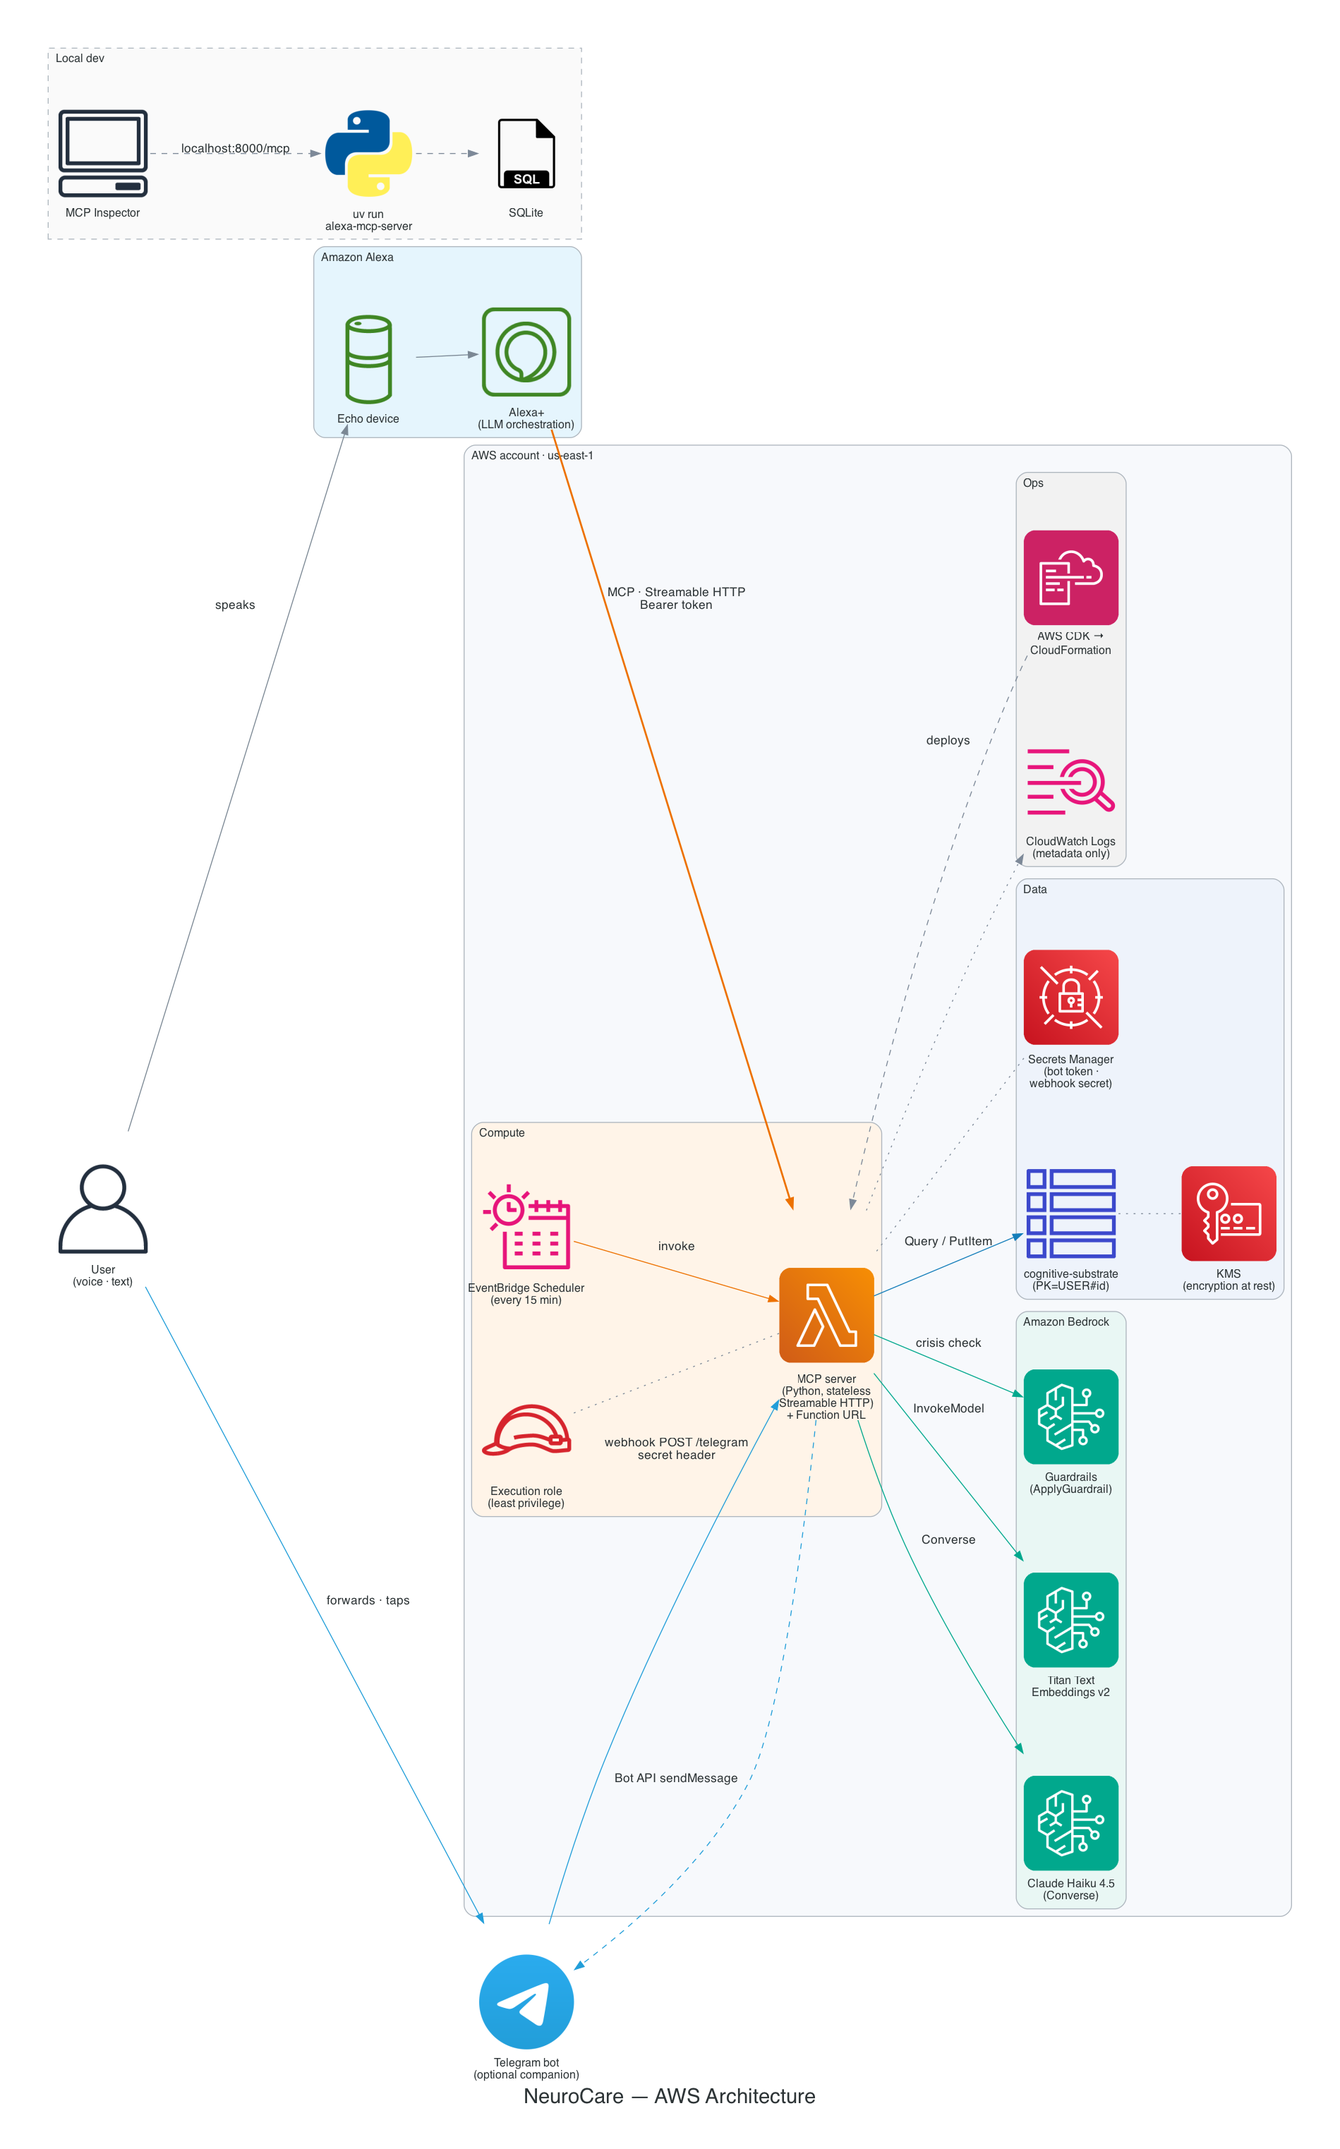
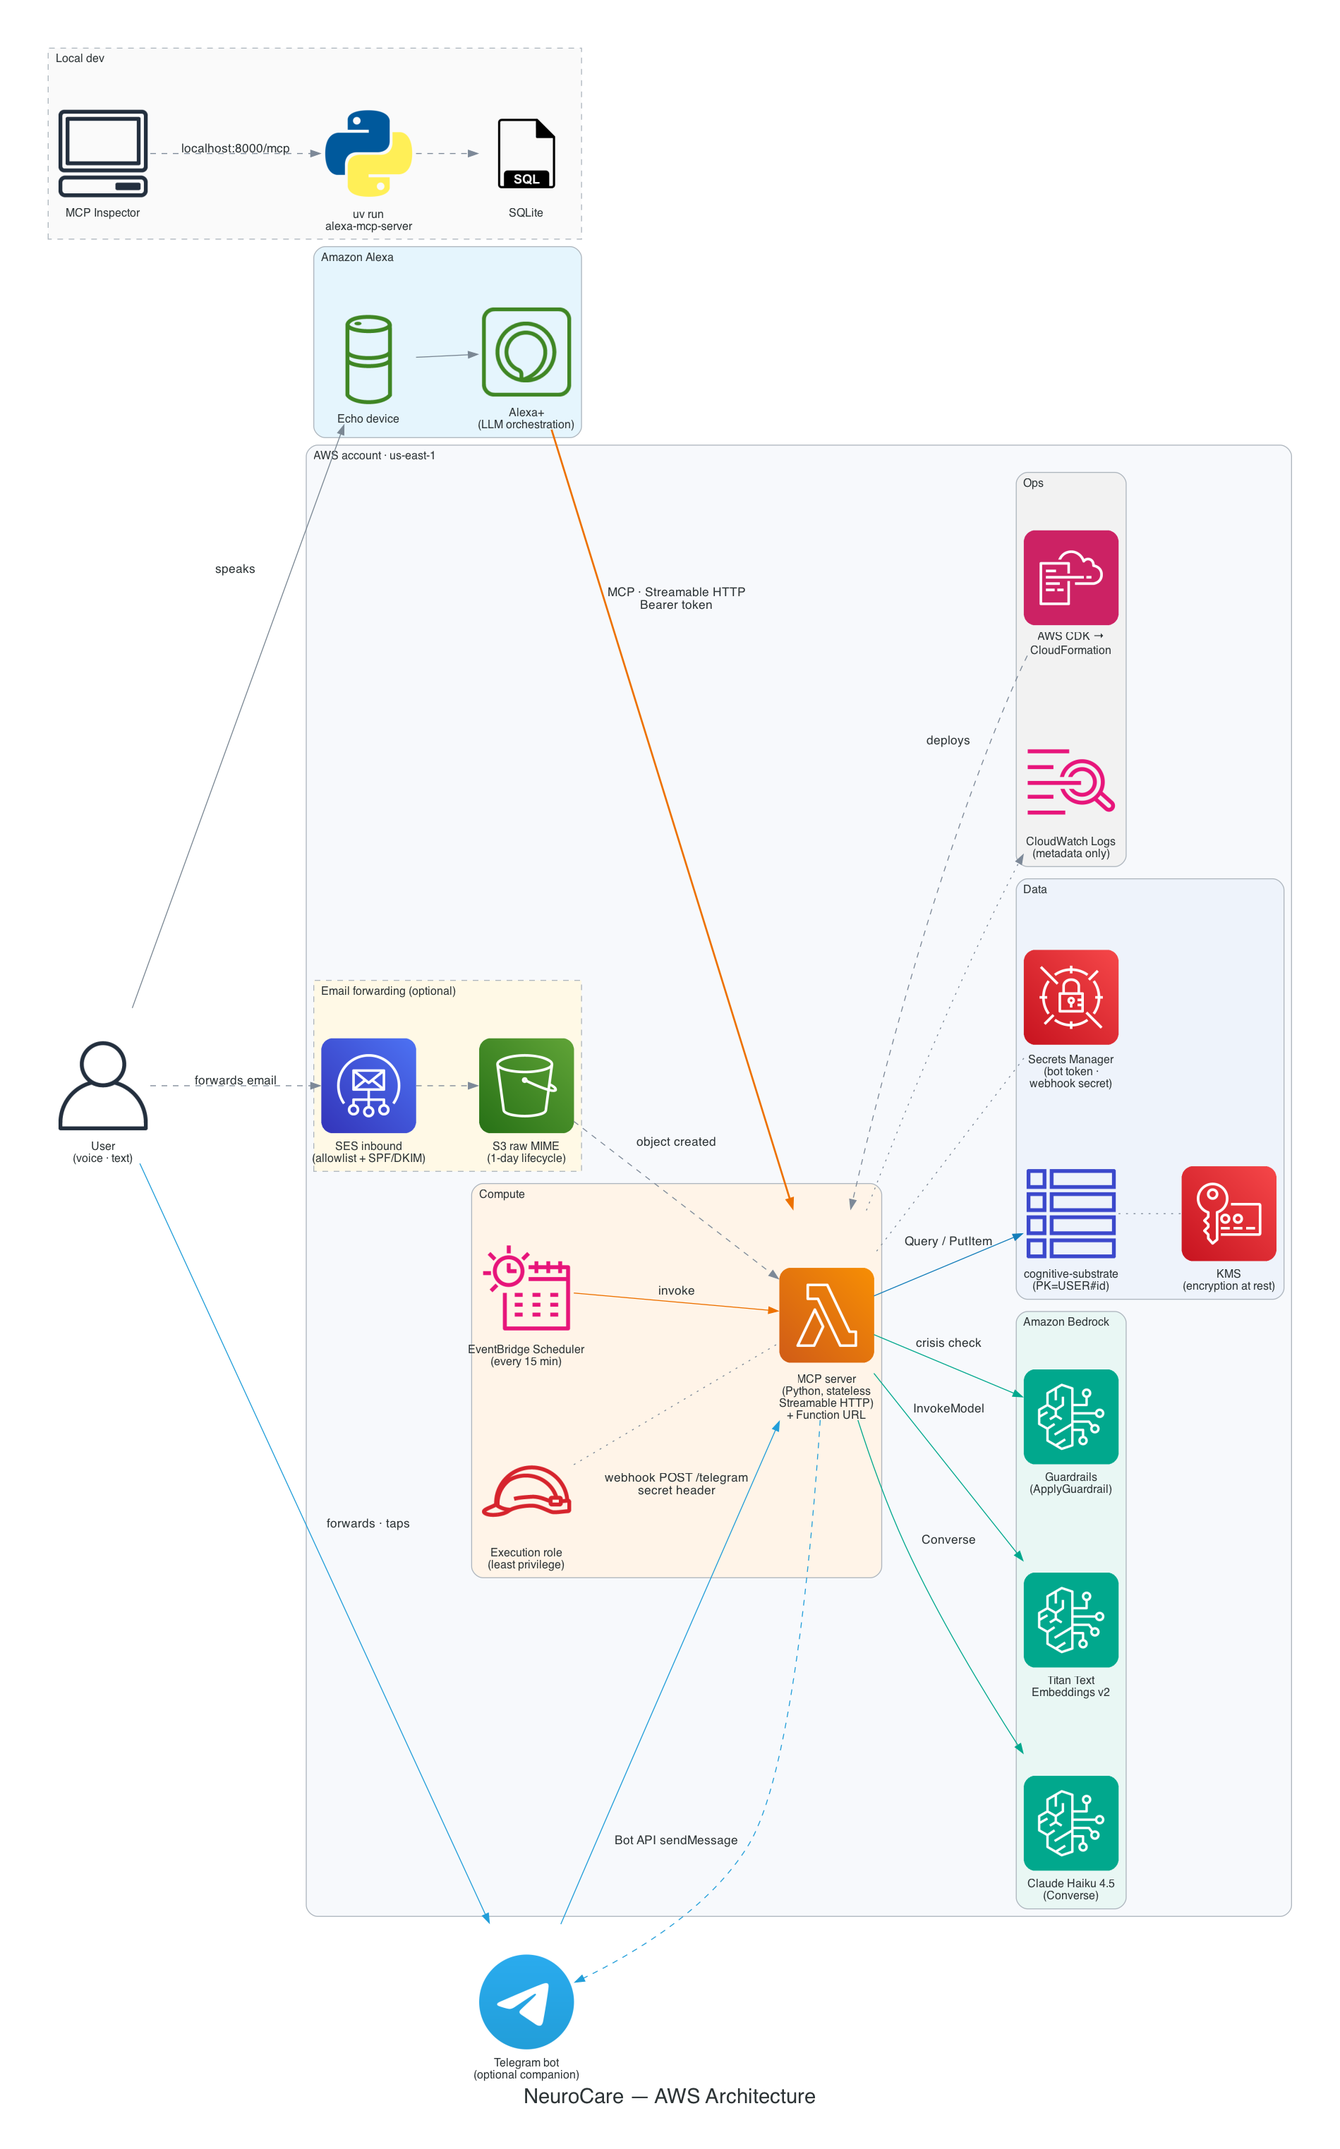
docs: add sender resolution and optional email forwarding address
- decode: 5-tier sender resolution (param, channel metadata, header
  lines, signature match, ask once) and sender_source result field
- New spec 5.8: SES inbound forwarding address with sender allowlist
  and SPF/DKIM checks, S3 raw MIME with 1-day lifecycle, parser for
  forwarded formats, triage card to linked Telegram, no outbound mail
- Profile email.allowed_senders, env vars, module layout, CDK, phase
  3/6b acceptance, risks, architecture Mermaid and AWS diagram
- aws-setup: SES domain, MX record, receipt rule steps and checklist

diff --git a/docs/diagrams/aws_architecture.py b/docs/diagrams/aws_architecture.py
@@ -13,12 +13,14 @@ from pathlib import Path
 from diagrams import Cluster, Diagram, Edge
 from diagrams.aws.compute import Lambda
 from diagrams.aws.database import DynamodbTable
+from diagrams.aws.engagement import SimpleEmailServiceSes
 from diagrams.aws.integration import EventbridgeScheduler
 from diagrams.aws.general import User
 from diagrams.aws.iot import IotAlexaEcho, IotAlexaVoiceService
 from diagrams.aws.management import Cloudformation, CloudwatchLogs
 from diagrams.aws.ml import Bedrock
 from diagrams.aws.security import KMS, IAMRole, SecretsManager
+from diagrams.aws.storage import SimpleStorageServiceS3
 from diagrams.generic.database import SQL
 from diagrams.onprem.client import Client
 from diagrams.programming.language import Python
@@ -67,6 +69,10 @@ with Diagram(
             role = IAMRole("Execution role\n(least privilege)")
             scheduler = EventbridgeScheduler("EventBridge Scheduler\n(every 15 min)")
 
+        with Cluster("Email forwarding (optional)", graph_attr={"bgcolor": "#FFF9E6", "style": "dashed"}):
+            ses = SimpleEmailServiceSes("SES inbound\n(allowlist + SPF/DKIM)")
+            raw = SimpleStorageServiceS3("S3 raw MIME\n(1-day lifecycle)")
+
         with Cluster("Data", graph_attr={"bgcolor": "#EEF3FB"}):
             table = DynamodbTable("cognitive-substrate\n(PK=USER#id)")
             kms = KMS("KMS\n(encryption at rest)")
@@ -92,6 +98,9 @@ with Diagram(
     telegram >> Edge(label="webhook POST /telegram\nsecret header", color=TELEGRAM_BLUE) >> mcp
     mcp >> Edge(label="Bot API sendMessage", color=TELEGRAM_BLUE, style="dashed") >> telegram
     scheduler >> Edge(label="invoke", color=AWS_ORANGE) >> mcp
+    user >> Edge(label="forwards email", style="dashed", color=GREY) >> ses
+    ses >> Edge(style="dashed", color=GREY) >> raw
+    raw >> Edge(label="object created", style="dashed", color=GREY) >> mcp
     secrets - Edge(style="dotted", color=GREY) - mcp
     cfn >> Edge(label="deploys", style="dashed", color=GREY) >> mcp
     mcp >> Edge(style="dotted", color=GREY) >> logs

diff --git a/docs/spec.md b/docs/spec.md
@@ -247,7 +247,7 @@ text) with its result attached, TTL 7 days. This is what lets the Telegram card 
 pinned Today message, and `triage_inbox` show the same result whichever channel produced it.
 
 #### Input paths
-Reading a long message aloud is the main friction, so four paths feed the same tool:
+Reading a long message aloud is the main friction, so these paths feed the same tool:
 
 | Path | Best for | How |
 |---|---|---|
@@ -255,6 +255,7 @@ Reading a long message aloud is the main friction, so four paths feed the same t
 | Type or paste | Longer text | Alexa app / alexa.com text chat → same `decode(message=…)` call |
 | Forward it | Long emails, threads | iOS Share Sheet shortcut (or similar) posts to `POST /inbox`; user then says "decode the message I just sent" → `decode()` |
 | Telegram | Reading the full breakdown | Forward, share, or paste to the NeuroCare bot (§5.7); it replies with the triage card |
+| Email forward | Emails, one tap from any mail app | Forward to the NeuroCare address (§5.8, optional, phase 6b); sender kept automatically |
 
 `POST /inbox` is a plain HTTP route on the same server (not an MCP tool), same bearer token.
 Body: `{ text: str (≤ 4000), sender?: str, source?: str }`. Stores an `INBOX#` item (TTL 7 days).
@@ -278,6 +279,7 @@ Returns
   suggest_reminder_minutes?: int, # set when reply_by is known
   needs_work: bool,               # message asks for a deliverable → Alexa may offer decompose
   sender_context_used: bool,
+  sender_source: "param" | "channel" | "header" | "signature" | "asked" | null,
   source: "llm" | "baseline",
   speak
 }
@@ -320,6 +322,23 @@ Low-friction rules:
 - At most one follow-up offer per result: a reminder (`suggest_reminder_minutes`) **or**
   "want me to break that into steps?" (`needs_work`), not both.
 - Unknown sender: still answer; offer once to remember who they are.
+
+#### Sender resolution
+Sender context is what makes decoding better than a bare LLM, and pasted text usually loses it.
+The server resolves the sender in this order and stops at the first hit:
+
+| # | Source | Example |
+|---|---|---|
+| 1 | Explicit `sender` param | "What does Priya mean by…" |
+| 2 | Channel metadata | Telegram `forward_origin` name; email forward's original `From:` (§5.8) |
+| 3 | Header lines in the pasted text | `From: Priya Shah <priya@…>` copied along with the body |
+| 4 | Greeting or signature matched against `PERSON#` names and aliases | "Thanks, Priya" / "– P." |
+| 5 | Ask once | Telegram: button row of the 3 most recently mentioned people + [Someone else] + [Skip]. Voice: decode proceeds without sender context; `speak` ends with "Who's it from?" |
+
+Tiers 3–4 are deterministic (regex + tiered name matching, §5.1), so there is no extra LLM call.
+A tier-4 match is used only if it is unambiguous. When the user picks a sender after the fact,
+the sender is stored on the `INBOX#` item and `decode` re-runs with that context. The result
+carries `sender_source: "param" | "channel" | "header" | "signature" | "asked" | null`.
 
 #### `triage_inbox(limit=3)`
 "What needs me?" / "Anything urgent?" Decodes pending inbox items (at most 3 per call, to stay
@@ -593,6 +612,41 @@ sequenceDiagram
 
 Not in scope: group chats, voice notes, editing plans in Telegram, sending drafts to anyone.
 
+### 5.8 Email forwarding address (optional, phase 6b)
+
+One-tap Forward from any mail app, with the original sender kept. The user still chooses each
+email, so this is not an inbox connector: nothing is read that the user did not forward.
+
+- **Address:** `inbox@<INBOUND_EMAIL_DOMAIN>` (a subdomain such as `in.neurocare.example`, with
+  an MX record pointing to SES inbound in `us-east-1`). Single demo user for the MVP; per-user
+  `inbox+<code>@…` addresses come with OAuth.
+- **Acceptance:** SES receipt rule accepts mail only when the envelope `From` is in
+  `email.allowed_senders` **and** SES SPF and DKIM verdicts are `PASS`. Everything else is
+  dropped without a bounce.
+- **Pipeline:** SES → S3 (raw MIME, KMS-encrypted, lifecycle delete after 1 day) → Lambda
+  (`channels/email.py`) → parse → `INBOX#` item with `source: "email"` → raw object deleted.
+- **Parsing:** take the forwarded block's original `From:`, `Subject:`, and `Date:`
+  (Gmail/Outlook/Apple Mail "Forwarded message" formats); strip quoted history and signatures;
+  keep plain text only, max 4000 characters; ignore attachments.
+- **After ingest:** if a Telegram chat is linked, the bot sends the triage card (a reply to the
+  user's action, so it does not count toward `telegram.max_push_per_day`). Otherwise it waits for
+  "Alexa, what needs me?" or "decode the email I forwarded".
+- **Never** replies to, or sends mail to, anyone. No outbound email at all.
+
+```mermaid
+flowchart LR
+    M([User taps Forward<br/>in any mail app]) --> SES[SES inbound<br/>in.domain MX]
+    SES --> V{From in allowed_senders<br/>and SPF + DKIM pass?}
+    V -- no --> DROP[[Drop silently]]
+    V -- yes --> S3[(S3 raw MIME<br/>KMS · 1-day lifecycle)]
+    S3 --> L[Lambda channels/email.py<br/>parse original From,<br/>strip quotes, ≤ 4000 chars]
+    L --> IN[(INBOX# item<br/>source: email)]
+    L -.-> DEL[Delete raw object]
+    IN --> TGQ{Telegram linked?}
+    TGQ -- yes --> CARD([decode → triage card in Telegram])
+    TGQ -- no --> WAIT([Wait for 'Alexa, what needs me?'])
+```
+
 ## 6. Safety
 
 ### Crisis path
@@ -665,6 +719,7 @@ Stored as one `PROFILE` item; seeded from `profile_seed.yaml` in the demo.
 | `telegram.max_push_per_day` | int 0–5 | 3 | Hard cap on messages the bot sends first |
 | `telegram.quiet_hours` | `HH:MM-HH:MM` | `21:00-08:00` | No bot-initiated messages inside this range |
 | `telegram.morning_at` | `HH:MM` | `08:30` | Time of the `morning` prompt |
+| `email.allowed_senders` | str[] | [] | Addresses allowed to forward to the inbound address (§5.8); empty disables it |
 
 ## 8. Data model
 
@@ -763,12 +818,15 @@ Same flow as Mermaid (renders even without the image), with the server's interna
 flowchart LR
     U((User)) -->|voice| A[Alexa+]
     U -->|text · buttons| TG[Telegram]
+    U -->|forward email| SESN
     TG -->|webhook POST /telegram<br/>secret header| URL
     A -->|MCP · Streamable HTTP<br/>Bearer token| URL[Lambda Function URL]
 
     subgraph AWS["AWS account · us-east-1"]
         URL --> TOOLS
         SCH[EventBridge Scheduler<br/>every 15 min] -->|invoke| SRV
+        SESN[SES inbound<br/>optional] -->|raw MIME| S3B[(S3<br/>1-day lifecycle)]
+        S3B -->|object created| SRV
 
         subgraph SRV["MCP server · Lambda (Python, stateless)"]
             TOOLS[Tool layer<br/>server.py] --> AUTH[auth<br/>token → user_id]
@@ -797,7 +855,8 @@ flowchart LR
     classDef data fill:#3B48CC,stroke:#262F85,color:#FFFFFF
     classDef code fill:#ECEFF4,stroke:#7D8998,color:#1B1F24
     classDef ext fill:#DCEFFB,stroke:#147EBA,color:#0B3D5C
-    class URL,CW,SCH aws
+    class URL,CW,SCH,SESN aws
+    class S3B data
     class HAIKU,TITAN,GR bedrock
     class DDB,SQL data
     class TOOLS,AUTH,SAFE,PIL,LLMC,STC,LSRV code
@@ -817,11 +876,13 @@ src/alexa_mcp_server/
   channels/http.py   POST /inbox route
   channels/telegram.py  webhook, link flow, triage card, buttons, pinned Today message
   channels/schedule.py  scheduled bot messages (cap, quiet hours)
+  channels/email.py  SES inbound: parse forwarded email → INBOX# (optional)
   safety/crisis.py   phrase list + ApplyGuardrail
   lambda_handler.py  ASGI → Lambda adapter
 profile_seed.yaml
 infra/               CDK app: table, Lambda, Function URL, IAM (Bedrock InvokeModel, ApplyGuardrail), Guardrail,
-                     EventBridge Scheduler rule, Secrets Manager secrets (Telegram bot token, webhook secret)
+                     EventBridge Scheduler rule, Secrets Manager secrets (Telegram bot token, webhook secret),
+                     optional SES receipt rule + S3 bucket for email forwarding
 ```
 
 Pillar modules are plain functions taking `(store, llm, user_id, ...)` so they are testable
@@ -837,6 +898,7 @@ uv run --no-project --with diagrams python docs/diagrams/aws_architecture.py
 Environment variables: `STORE`, `TABLE_NAME`, `SQLITE_PATH`, `AUTH_TOKEN`, `DEMO_USER_ID`,
 `BEDROCK_MODEL_ID`, `BEDROCK_EMBED_MODEL_ID`, `BEDROCK_GUARDRAIL_ID`, `BEDROCK_GUARDRAIL_VERSION`,
 `TELEGRAM_BOT_TOKEN`, `TELEGRAM_WEBHOOK_SECRET` (both from SSM / Secrets Manager on AWS),
+`INBOUND_EMAIL_DOMAIN`, `INBOUND_EMAIL_BUCKET` (optional),
 `AWS_REGION`, `HOST`, `PORT`.
 
 ## 10. Server instructions (draft)
@@ -877,11 +939,11 @@ Each phase is demoable on its own.
 |---|---|---|
 | 1 | Store interface + SQLite, auth, memory tools, profile + seed | All memory tools pass tests; `what_was_i_doing` returns seeded context in Inspector |
 | 2 | Sense of time | `check_in` level boundaries tested at 59/60/89/90/119/120 min and after end-of-day; `now_context` leave-by correct |
-| 3 | Translator + Bedrock wrapper | Baseline-only path tested with fake LLM failure; schema-validated LLM path tested with fake LLM; one live Bedrock smoke test; embedding tier enabled (recall and rumination tested with `FakeEmbedder`, null embeddings backfilled); `POST /inbox` → `decode()` with no message decodes newest item, `NOT_FOUND` when empty; triage fields present (`related` resolved from seeded commitments, `cues` from baseline); a message containing injected instructions yields a normal result with no side effects; `triage_inbox` orders by priority → reply_by → age and decodes at most 3 per call |
+| 3 | Translator + Bedrock wrapper | Baseline-only path tested with fake LLM failure; schema-validated LLM path tested with fake LLM; one live Bedrock smoke test; embedding tier enabled (recall and rumination tested with `FakeEmbedder`, null embeddings backfilled); `POST /inbox` → `decode()` with no message decodes newest item, `NOT_FOUND` when empty; triage fields present (`related` resolved from seeded commitments, `cues` from baseline); a message containing injected instructions yields a normal result with no side effects; sender resolution tiers 1–4 tested (header line, unambiguous signature, ambiguous signature → none); `triage_inbox` orders by priority → reply_by → age and decodes at most 3 per call |
 | 4 | Guardrail: crisis → rumination → hyperfocus | Crisis precheck short-circuits `remember`, `decode`, `log_topic`, and `decompose` (tested); 3rd similar `log_topic` inside window detects; override suppresses; crisis ignores override |
 | 5 | Task breakdown + daily plan | Steps validated (count, minutes, verb-first, step 1 ≤ 5 min); `next_step`/`done_step` walk the list; `split_step` replaces only the current step; `skip_step` moves it to the end; fallback on LLM failure. `brain_dump` splits multi-item text (baseline stores one item) and is short-circuited by the crisis precheck; `plan_today` never exceeds `plan.max_priorities` and respects energy; `wrap_up` rolls unfinished items |
 | 6 | DynamoDB store + CDK + Lambda | Same test suite passes against moto-backed DynamoDB; `cdk deploy` succeeds; Inspector connects to Function URL `/mcp` with token |
-| 6b | Telegram companion | Link code flow (expiry, single use); webhook rejects a missing/wrong secret header; unlinked chat rejected; forwarded text → triage card with buttons; buttons call `remember` / `brain_dump` / feedback; pinned Today message edited on plan change; push cap and quiet hours honored (clock fixture); local long-polling dev mode works |
+| 6b | Telegram companion | Link code flow (expiry, single use); webhook rejects a missing/wrong secret header; unlinked chat rejected; forwarded text → triage card with buttons; buttons call `remember` / `brain_dump` / feedback; pinned Today message edited on plan change; push cap and quiet hours honored (clock fixture); local long-polling dev mode works. Optional email forwarding: Gmail/Outlook/Apple Mail forward fixtures parse the original sender; non-allowlisted or SPF/DKIM-failing mail dropped; raw object deleted after parse; card sent to linked Telegram chat |
 | 7 | Stretch | `reality_check(claim)`; Cognito OAuth 2.1 |
 
 ```mermaid
@@ -931,3 +993,5 @@ flowchart LR
 | Notification fatigue from bot-initiated messages | Off by default, opt-in per type, daily cap, quiet hours |
 | Telegram not allowed by employer or not installed | Channel is optional; Alexa alone covers every feature except unprompted messages |
 | Spoofed webhook calls | Secret header check; unlinked chats rejected |
+| Spoofed forwarded email | Sender allowlist plus SES SPF/DKIM verdicts; no outbound mail, so a spoof can at most add an inbox item |
+| Forwarded-email formats vary by client | Fixtures for Gmail, Outlook, Apple Mail; fall back to sender resolution tiers 3–5 |

diff --git a/docs/aws-setup.md b/docs/aws-setup.md
@@ -158,6 +158,19 @@ Lambda Function URL exists.
 
 Privacy reminder: bot chats are not end-to-end encrypted. Demo with synthetic messages only.
 
+### Optional: email forwarding address (spec §5.8)
+
+Needs a domain you control (a subdomain is enough).
+
+1. **SES → Identities:** verify the domain (e.g. `in.neurocare.example`) in `us-east-1`.
+2. **DNS:** add an MX record `in.neurocare.example → inbound-smtp.us-east-1.amazonaws.com` (priority 10).
+3. **SES → Email receiving:** create a rule set (CDK can do this) with one rule for
+   `inbox@in.neurocare.example`: action **S3** (the KMS-encrypted bucket with a 1-day lifecycle),
+   with S3 event notification → the Lambda. Make the rule set **active**.
+4. Set `email.allowed_senders` in the profile seed to your own address(es).
+5. Test: forward a synthetic email from an allowed address and check it shows up as a
+   Telegram card or under "Alexa, what needs me?". Mail from other addresses must not appear.
+
 ## 7. Checklist
 
 - [ ] Account created, root MFA on
@@ -170,6 +183,7 @@ Privacy reminder: bot chats are not end-to-end encrypted. Demo with synthetic me
 - [ ] `aws sts get-caller-identity` works for both profiles
 - [ ] (Phase 6b) Telegram bot created; token + webhook secret in Secrets Manager
 - [ ] (Phase 6b) Webhook registered with `secret_token`; Scheduler rule present
+- [ ] (Optional) SES domain verified, MX record set, receipt rule set active, allowlist seeded
 
 ## References
 
